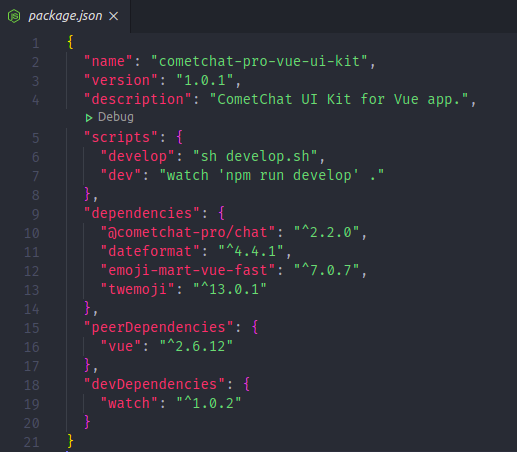
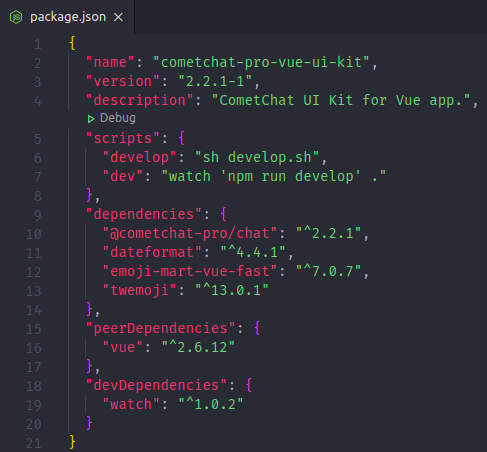
Updated CometChat SDK to v2.2.1

diff --git a/README.md b/README.md
@@ -58,7 +58,7 @@ Before you begin, ensure you have met the following requirements:
 ### iii. Add the CometChat dependency 📦
 
 ```javascript
-  npm install @cometchat-pro/chat@2.2.0 --save
+  npm install @cometchat-pro/chat@2.2.1 --save
 ```
 
 <br/>
